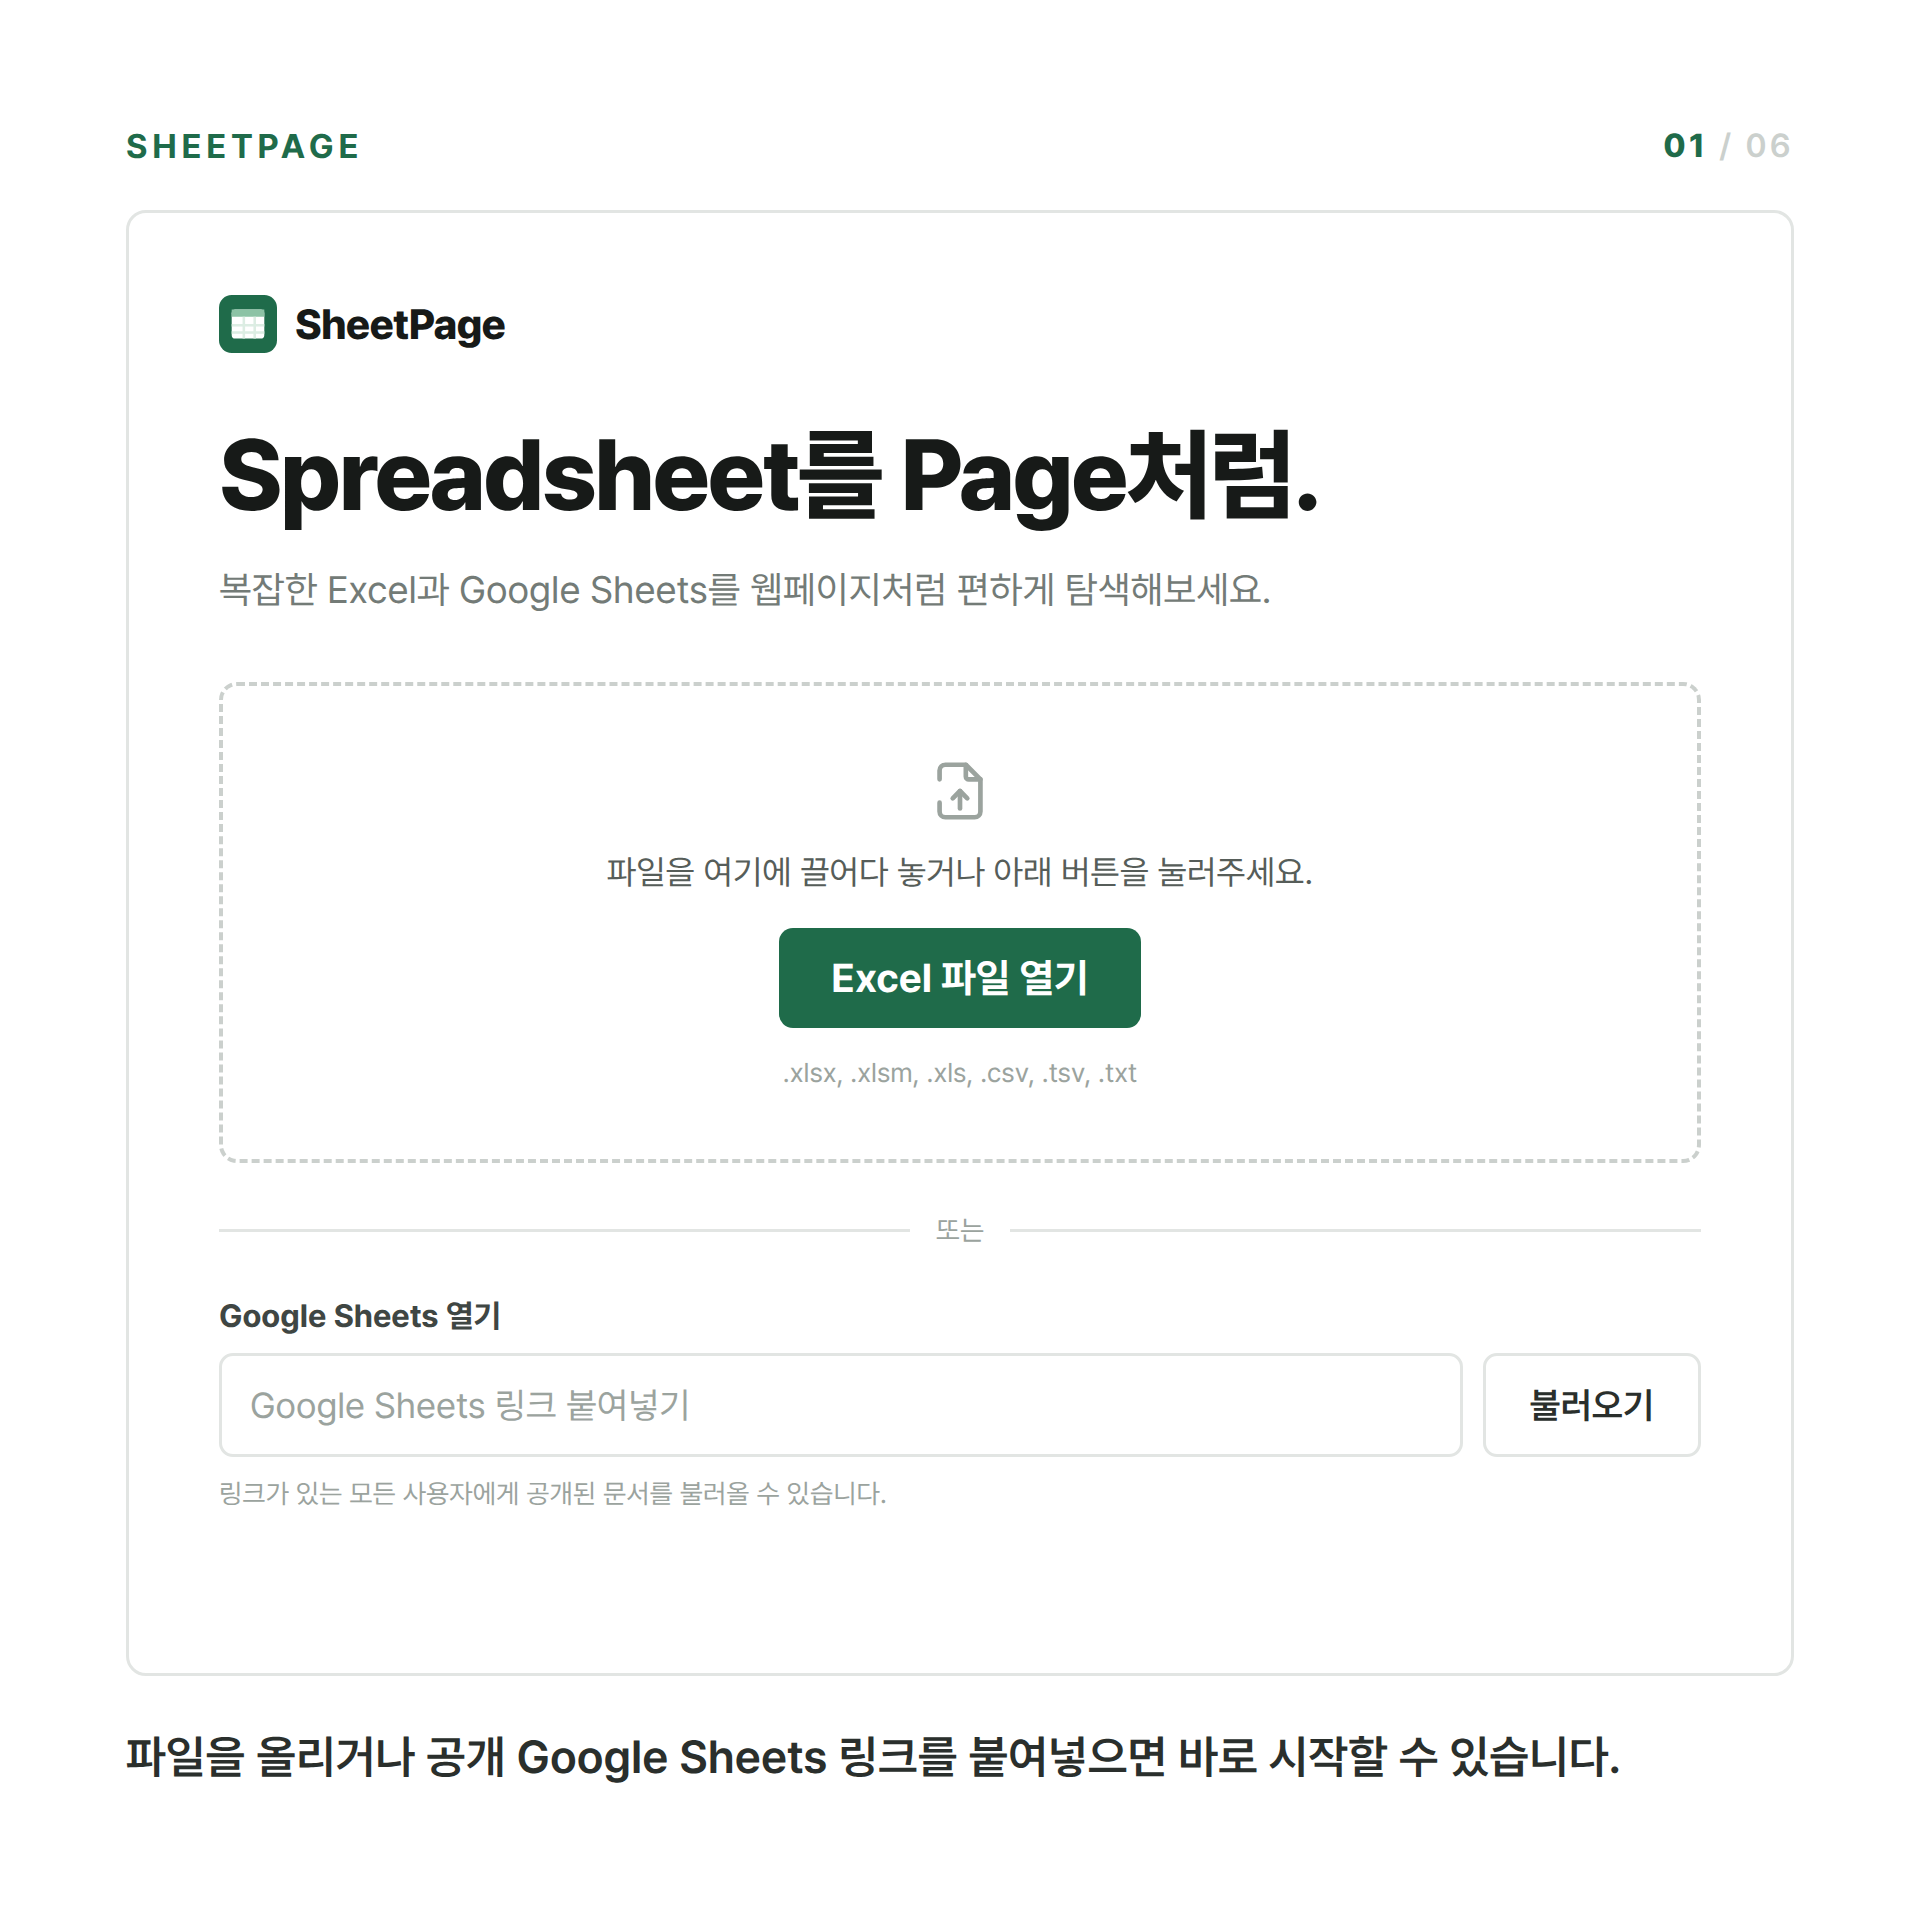
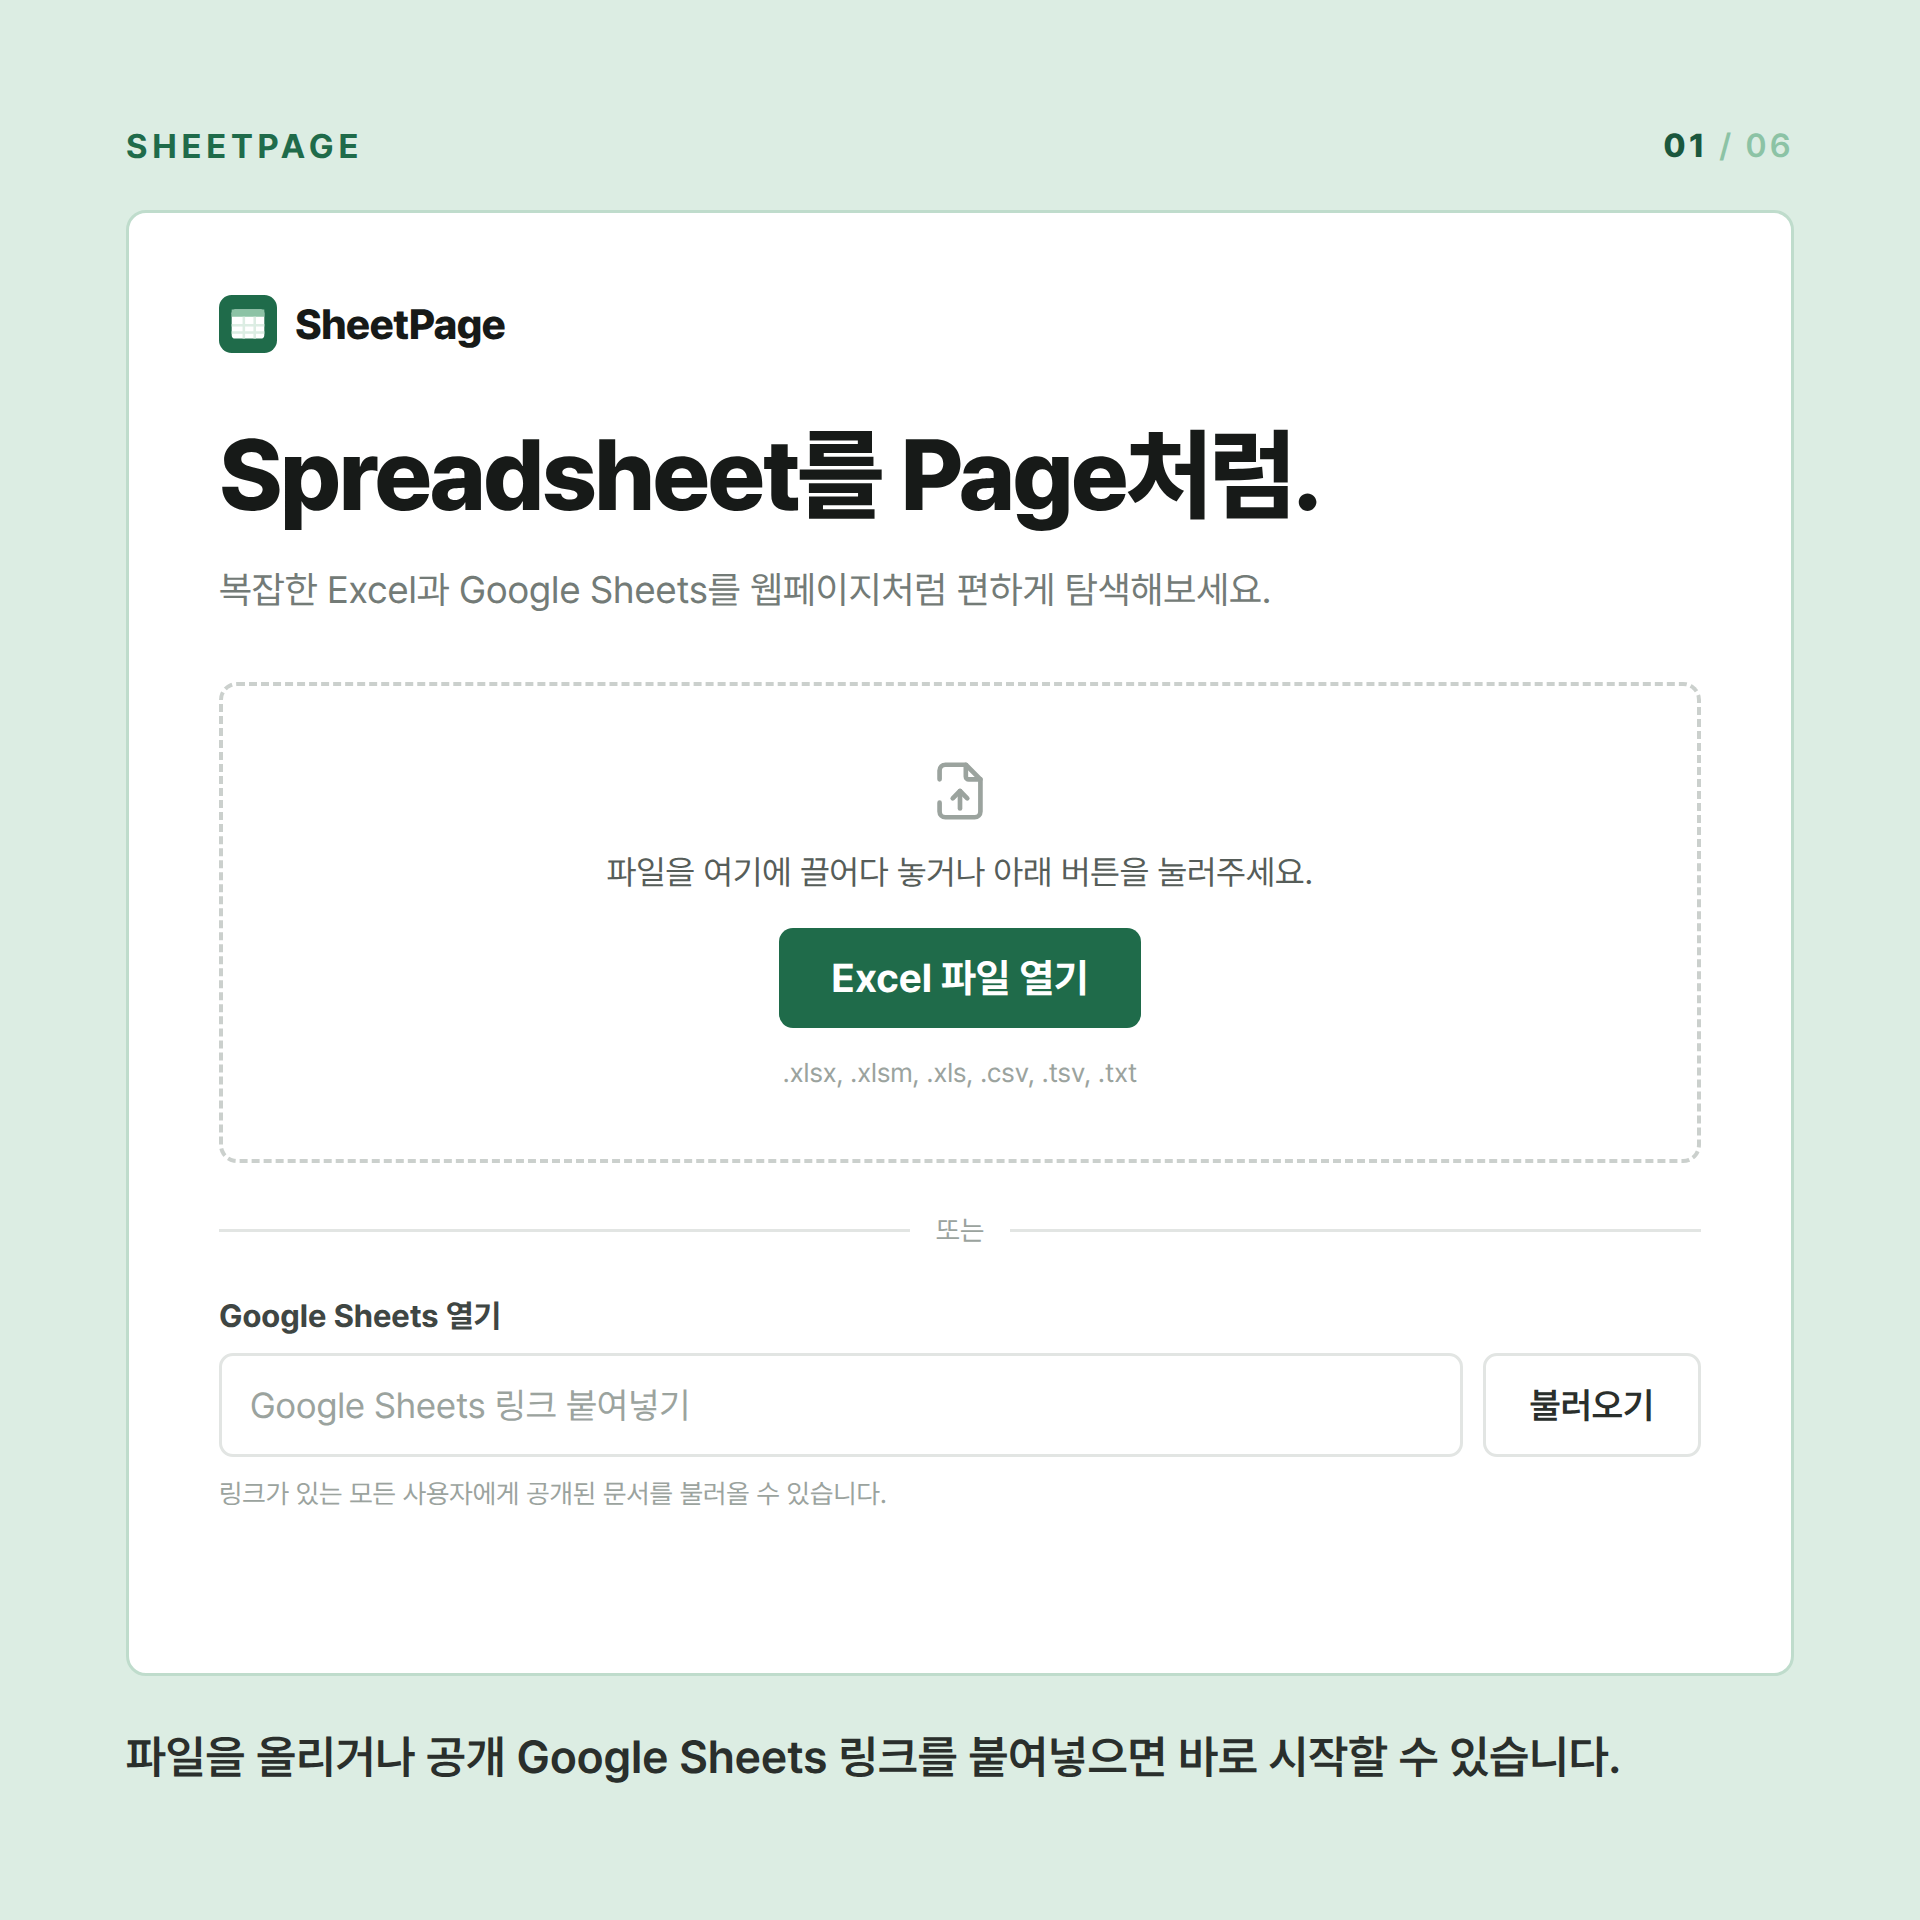
docs: tint the opening and closing cards
Both bookend cards were pure white, which left the set with no colour at all.
They now carry a soft brand green (#DCEDE3) while cards 02–05 stay white, so
the data-heavy middle keeps its contrast and the set reads as having a start
and an end.

The tint does more than decorate on 01: the home-screen mock stays white, so
the screenshot now sits forward as the card's subject instead of blending into
the page. On 06 the URL gets a white field for the same reason.

Greys tuned for white go washy on the tint, so body copy on those two cards
steps down to ink-700, and the pager and divider pick up green-tinted values
rather than the neutral ones.

Claude-Session: https://claude.ai/code/session_01KWbYgYUuipQb8NS2rBP39c

diff --git a/assets/cardnews/cards.html b/assets/cardnews/cards.html
@@ -20,6 +20,18 @@
         display:flex;flex-direction:column;position:relative;overflow:hidden}
   .card + .card{margin-top:40px}
 
+  /* The opening and closing cards carry a soft brand tint so the set has
+     bookends; everything between them stays white for readability. */
+  .card.tinted{background:#DCEDE3}
+  .card.tinted .pager{color:var(--brand-300)}
+  .card.tinted .pager b{color:var(--brand-700)}
+  .card.tinted .win{border-color:#BFDCCC}
+  .card.tinted .urlbox{background:#fff;border-color:var(--brand-600)}
+  .card.tinted .credit{border-top-color:#BFDCCC}
+  .card.tinted .credit .k{color:var(--brand-700)}
+  /* Body grey that reads fine on white goes washy on the tint. */
+  .card.tinted .lead{color:var(--ink-700)}
+
   .eyebrow{font-size:38px;font-weight:700;letter-spacing:.16em;color:var(--brand-600);text-transform:uppercase}
   h1{font-size:104px;font-weight:800;line-height:1.24;letter-spacing:-.03em;color:var(--ink-900)}
   h1.big{font-size:138px;line-height:1.16}
@@ -150,7 +162,7 @@
 <body>
 
 <!-- ==================== 01 표지 · 앱 첫 화면 ==================== -->
-<div class="card" id="c1">
+<div class="card tinted" id="c1">
   <div class="pager"><b>01</b> / 06</div>
   <div style="font-size:34px;font-weight:700;letter-spacing:.14em;color:var(--brand-600)">SHEETPAGE</div>
 
@@ -430,7 +442,7 @@
 </div>
 
 <!-- ==================== 06 아웃트로 ==================== -->
-<div class="card" id="c6">
+<div class="card tinted" id="c6">
   <div class="pager"><b>06</b> / 06</div>
   <div class="logo">
     <svg viewBox="0 0 32 32"><rect width="32" height="32" rx="7" fill="#1F6B4A"/><rect x="7" y="8" width="18" height="16" rx="2" fill="#fff"/><rect x="7" y="8" width="18" height="4" fill="#8CC3A5"/><rect x="13" y="12" width="1.4" height="12" fill="#DCEDE3"/><rect x="19" y="12" width="1.4" height="12" fill="#DCEDE3"/><rect x="7" y="16" width="18" height="1.4" fill="#DCEDE3"/><rect x="7" y="20" width="18" height="1.4" fill="#DCEDE3"/></svg>
